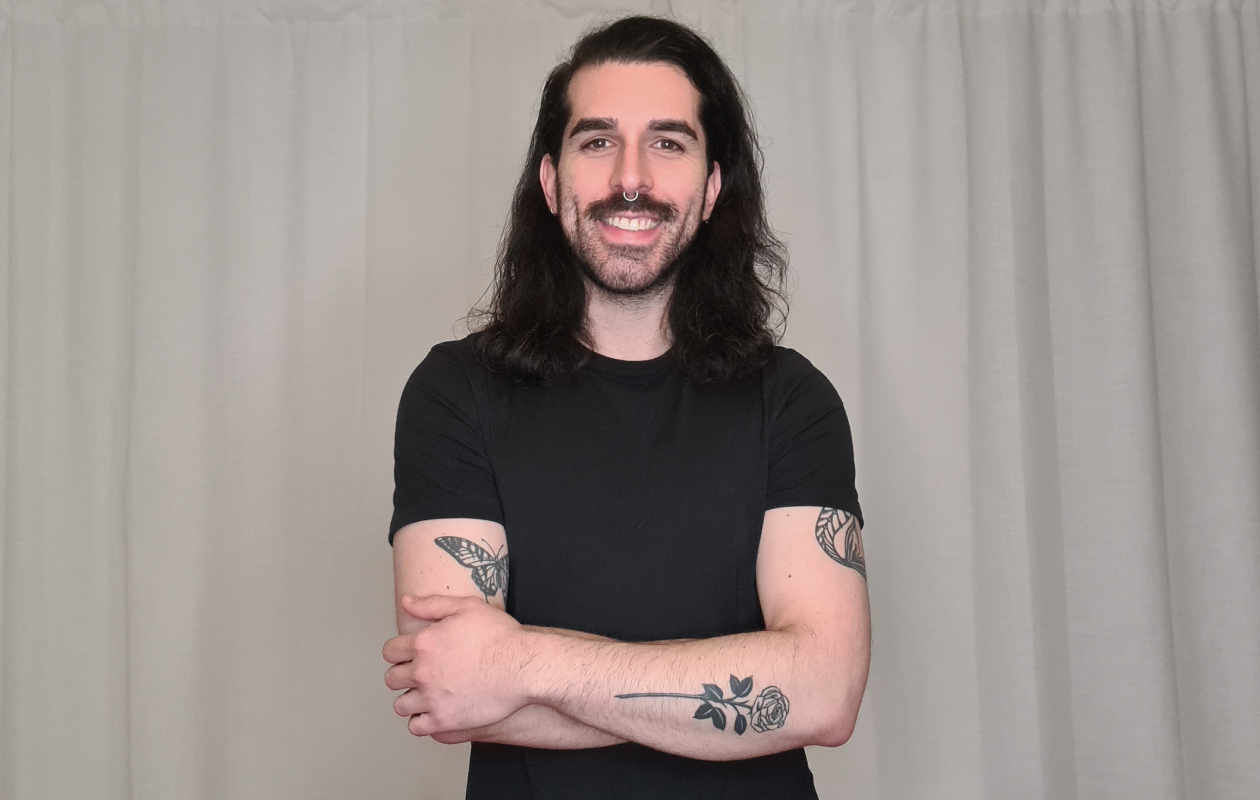
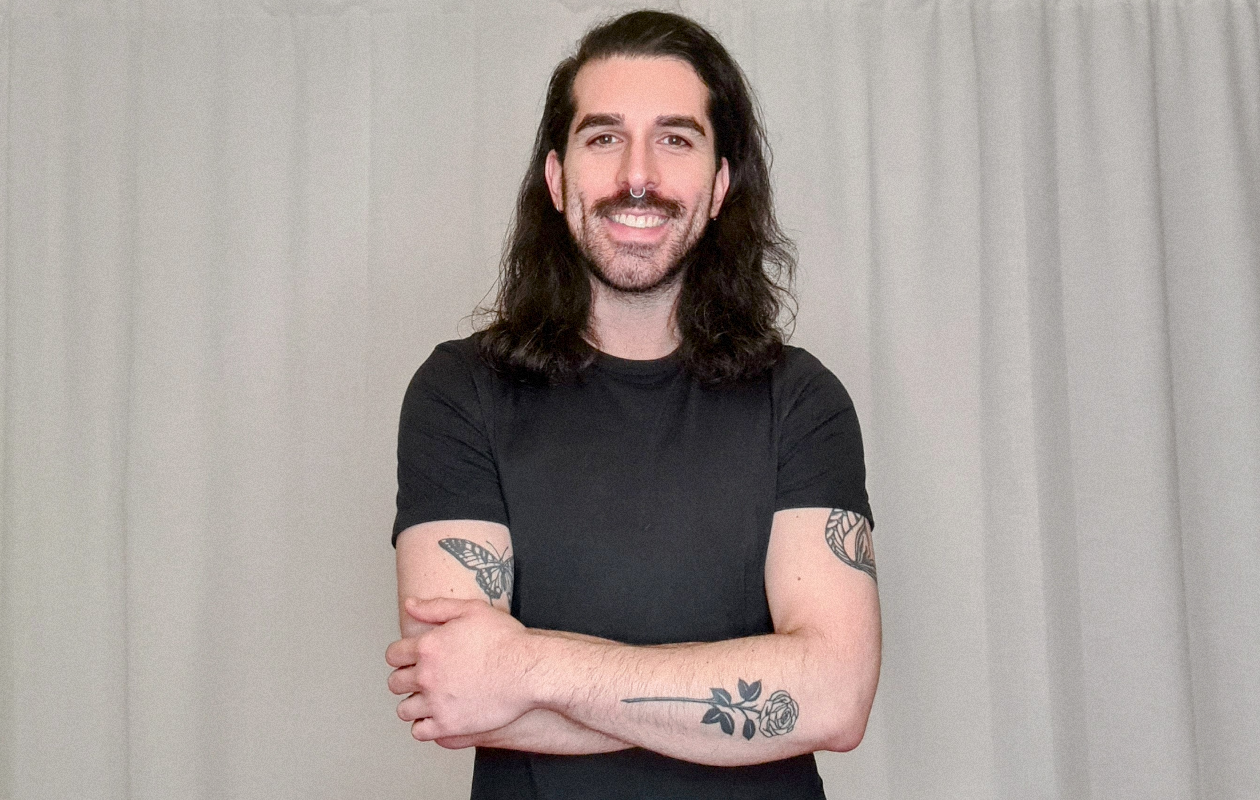
Fixed images

Changed region(s): [[0.1857, 0.0, 1.0, 1.0], [0.4952, 0.6562, 0.5571, 0.7188]]

diff --git a/css/styles.css b/css/styles.css
@@ -27,7 +27,7 @@ p {
 
 .title {
   font-size: 50px;
-  margin: 250px 300px 200px 250px;
+  margin: 250px 300px 150px 250px;
 }
 
 .title span {
@@ -47,6 +47,7 @@ p {
   position: fixed;
   left: 85%;
   bottom: 85%;
+  z-index: 999;
 
 }
 
@@ -236,9 +237,12 @@ a {
 /* About */
 
 .profile {
-  margin-top: 100px;
   margin-bottom: 100px;
   text-align: right;
+}
+
+.profile img {
+  width: 74%;
 }
 
 
@@ -287,7 +291,7 @@ h4 {
 }
 
 .links {
-  margin: 0 400px 100px 400px;
+  margin: 0 400px 50px 400px;
 }
 
 .links a,
@@ -364,7 +368,7 @@ button:hover {
 
   .coverImage img {
     position: absolute;
-    right: -55%;
+    right: -85%;
     width: auto;
     height: 100vh;
   }
@@ -378,7 +382,7 @@ button:hover {
     margin: 0;
     position: absolute;
     top: 60%;
-    left: 10%;
+    left: 5%;
     -ms-transform: translateY(-50%);
     transform: translateY(-50%);
   }
@@ -395,10 +399,19 @@ button:hover {
     content: none;
   }
 
+  #hello,
+  #iam,
+  #name, .tapHere {
+    color: #F7F9F6;
+    text-shadow: 0px 4px 3px rgba(0, 0, 0, 0.4),
+      0px 8px 13px rgba(0, 0, 0, 0.1),
+      0px 18px 23px rgba(0, 0, 0, 0.1);
+  }
+
   .tapHere {
     display: block;
     position: absolute;
-    left: 10%;
+    left: 5%;
     bottom: 10%;
     z-index: 999;
   }
@@ -406,7 +419,7 @@ button:hover {
   .tapHere button {
     border: none;
     background: none;
-    color: #DA3A37;
+    color: #F7F9F6;
     font-size: 20px;
   }
 
@@ -517,7 +530,7 @@ button:hover {
     height: 100vh;
     width: auto;
     position: absolute;
-    right: -25%;
+    right: -55%;
   }
 
   .main {

diff --git a/about.html b/about.html
@@ -29,11 +29,6 @@
             <h1 class="lineUp2"><span>Web Developer</span></h1>
         </div>
 
-        <div class="profile">
-            <img class="fadeIn" src="images/about.png" alt="about-pic">
-        </div>
-
-
         <div class="description">
 
             <p>
@@ -66,9 +61,12 @@
 
         </div>
 
-
         <div class="links">
             <a href="docs/resume.txt" download="resume.txt">Download my resume</a>
+        </div>
+
+        <div class="profile">
+            <img class="fadeIn" src="images/about.png" alt="about-pic">
         </div>
 
         <script src="index.js"></script>
